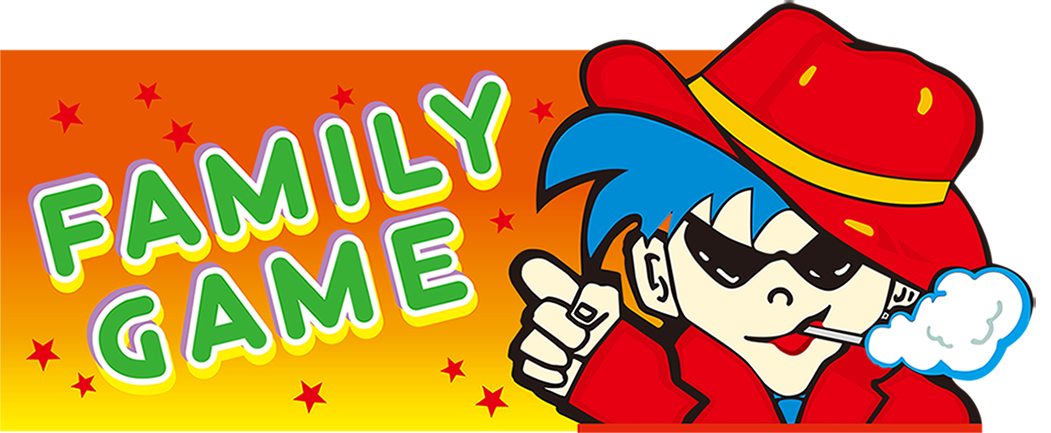
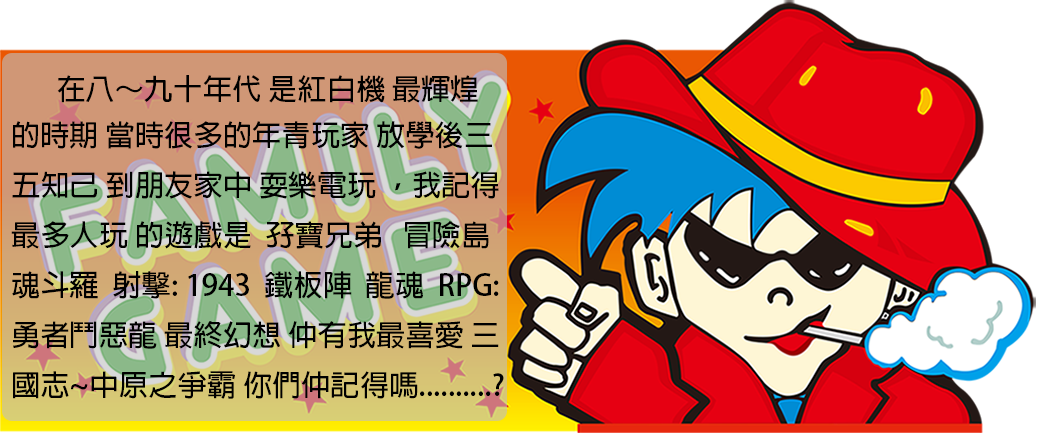
HI

diff --git a/index.htm b/index.htm
@@ -157,7 +157,7 @@ table.banner1 {
 
 
 
-<div class="topnav" style="left: 0px; top: -10px; width: 100%; height: 45px;">
+<div class="topnav" style="left: -2px; top: -3px; width: 100%; height: 47px;">
   <a class="active" style="background-color:gray; width:57px" href="#FC1"><strong>測試區</strong> </a>
   <a href="#FC1" style="background-color:#04AA6D; width:40px">1SIDE</a>
   <a href="#FC2" style="background-color:#04AA6D; width: 40px">2SIDE</a>
@@ -171,6 +171,7 @@ table.banner1 {
   <a href="#R系列" style="background-color:#FF5050; width: 40px">R系</a>
   <a href="#魔奇卡" style="background-color:#FF5050; width: 40px">MC</a>
   <a href="#SM魔奇卡" style="background-color:#FF5050; width: 40px">SMC</a>
+  <a href="#站長的留言" style="background-color:#0066FF; width: 196px">站長的留言</a>
 &nbsp;</div>
 
 
@@ -8468,7 +8469,7 @@ table.banner1 {
 	
 	 <!--banner-->
   <table class="banner1">
-  	<tr id="R系列" >
+  	<tr id="站長的留言" >
   															  <                   			
   		<!--BANNER ITEM-->		<td class="style11">&nbsp;<img  src="src/image/2022.png" class="style10" height="412" width="1040"/></a> <br /> 
 																<span class="style13">20220226 (博士遊戲檔案下載網站) 
